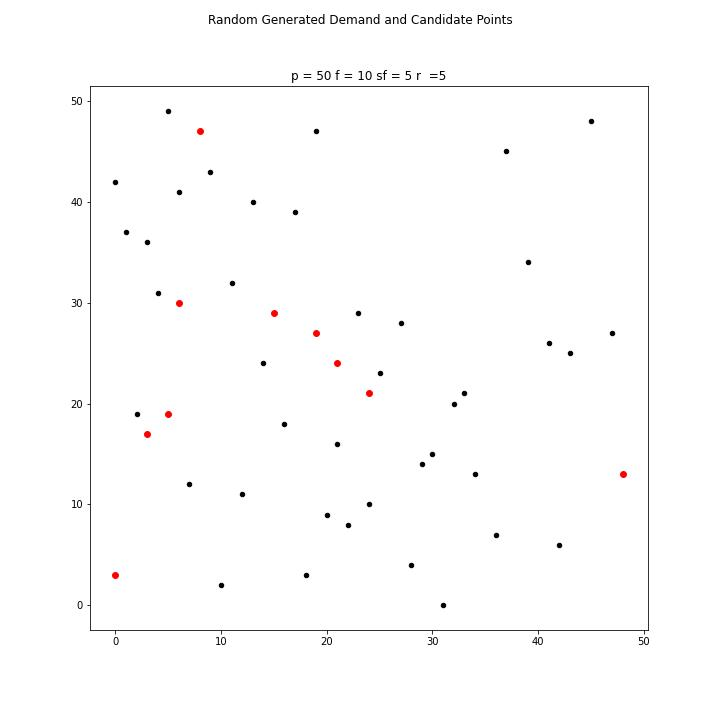
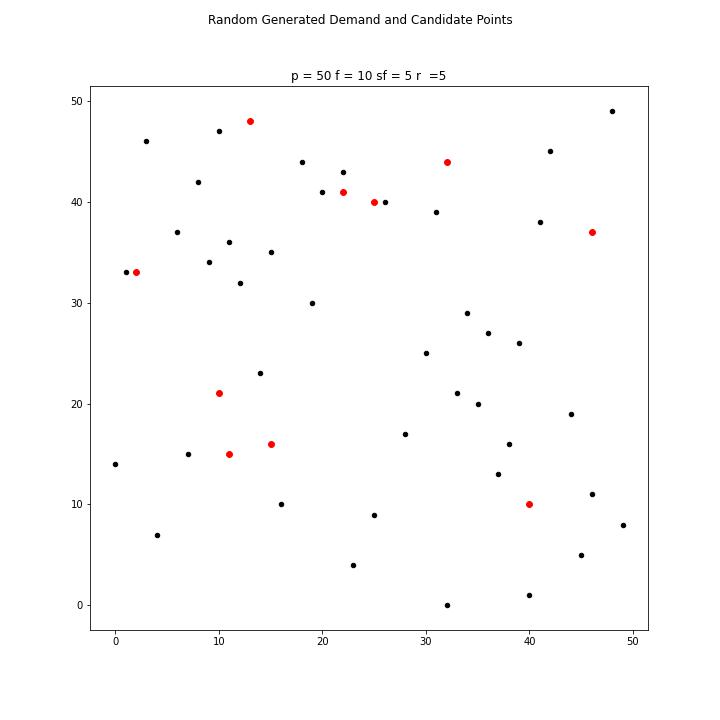
local search testing

diff --git a/test2.py b/test2.py
@@ -1,0 +1,67 @@
+# Selected sites: [[8, 47], [24, 21], [19, 27], [3, 17], [6, 30]]
+# Non selected sites [[48, 13], [15, 29], [0, 3], [21, 24], [5, 19]]
+# Covered points: [[9, 43], [5, 49], [25, 23], [23, 29], [2, 19], [4, 31]]
+# Non covered points: [[21, 16], [43, 25], [12, 11], [3, 36], [0, 42], [18, 3], [19, 47], [16, 18], [47, 27], [30, 15], 
+# [24, 10], [34, 13], [31, 0], [37, 45], [42, 6], [14, 24], [10, 2], [27, 28], [29, 14], [13, 40], [11, 32], [20, 9], [7, 12], 
+# [45, 48], [17, 39], [22, 8], [36, 7], [6, 41], [39, 34], [41, 26], [28, 4], [33, 21], [1, 37], [32, 20]]
+# Objective function: 6
+
+import numpy as np
+import matplotlib.pyplot as plt
+from math import sqrt
+from operator import itemgetter
+from numpy.random import default_rng
+
+
+demand_points = [[26, 40], [22, 43], [37, 13], [20, 41], [7, 15], [14, 23], 
+[49, 8], [34, 29], [1, 33], [4, 7], [28, 17], [11, 36], [19, 30], [31, 39], [9, 34], 
+[0, 14], [8, 42], [40, 1], [30, 25], [44, 19], [41, 38], [3, 46], [12, 32], [38, 16], 
+[39, 26], [42, 45], [23, 4], [45, 5], [18, 44], [6, 37], [16, 10], [35, 20], [32, 0], 
+[46, 11], [36, 27], [33, 21], [48, 49], [25, 9], [15, 35], [10, 47]]
+
+candidate_sites = [[25, 40], [40, 10], [22, 41], [11, 15], [10, 21], [32, 44], [15, 16], [46, 37], [2, 33], [13, 48]]
+
+non_covered_points = list(demand_points)
+covered_points = []
+
+selected_sites = [[25, 40], [40, 10], [22, 41], [11, 15], [10, 21]]
+non_selected_sites = [[32, 44], [15, 16], [46, 37], [2, 33], [13, 48]]
+new_selected_sites = []
+individual_covered = [[[25, 40], 2], [[40, 10], 1], [[22, 41], 1], [[11, 15], 1], [[10, 21], 1]]
+prev_objective_function = 6
+sf = 5
+r = 5
+new_of = 0
+completed = True
+
+title = "p = " + str(50) + " f = " + str(10) + " sf = " + str(sf) + " r  =" + str(r)
+
+for x in range(sf):
+    for selected in individual_covered:
+        if len(new_selected_sites)>=sf:
+            completed = False
+        count = 0
+        for no_selected in non_selected_sites:
+            for point in non_covered_points:
+                d = sqrt((point[0] - no_selected[0]) ** 2 + (no_selected[1] - point[1]) ** 2)
+                if d <= r and completed:
+                    covered_points.append(point)
+                    non_covered_points.remove(point)
+                    count += 1
+            if count > selected[1] and completed:
+                non_selected_sites.append(selected[0])
+                selected_sites.remove(selected[0])
+                selected_sites.append(no_selected)
+                new_selected_sites.append(no_selected)
+                non_selected_sites.remove(no_selected)
+                new_of += count
+                break
+
+
+print("Selected sites:", selected_sites)
+print("Non selected sites:", non_selected_sites)
+print("Covered points:", covered_points)
+print("Non covered points:", non_covered_points)
+print("Objective function:", new_of)
+print("Number of points covered by every site:", individual_covered)
+print("New SELECTED SITES:", new_selected_sites)

diff --git a/test.py b/test.py
@@ -35,8 +35,8 @@ non_covered_points = list(demand_points)
 of = 0
 selected_sites = []
 covered_points = []
-S = len(selected_sites)
 completed = True
+individual_covered = []
 
 while len(selected_sites)<sf:
     for site in non_selected_sites:
@@ -52,6 +52,7 @@ while len(selected_sites)<sf:
         if count > 0 and completed:
                 selected_sites.append(site)
                 non_selected_sites.remove(site)
+                individual_covered.append([site, count])
         of += count
 
 print("Selected sites:", selected_sites)
@@ -59,3 +60,4 @@ print("Non selected sites", non_selected_sites)
 print("Covered points:", covered_points)
 print("Non covered points:", non_covered_points)
 print("Objective function:", of)
+print("Number of points covered by every site:", individual_covered)
